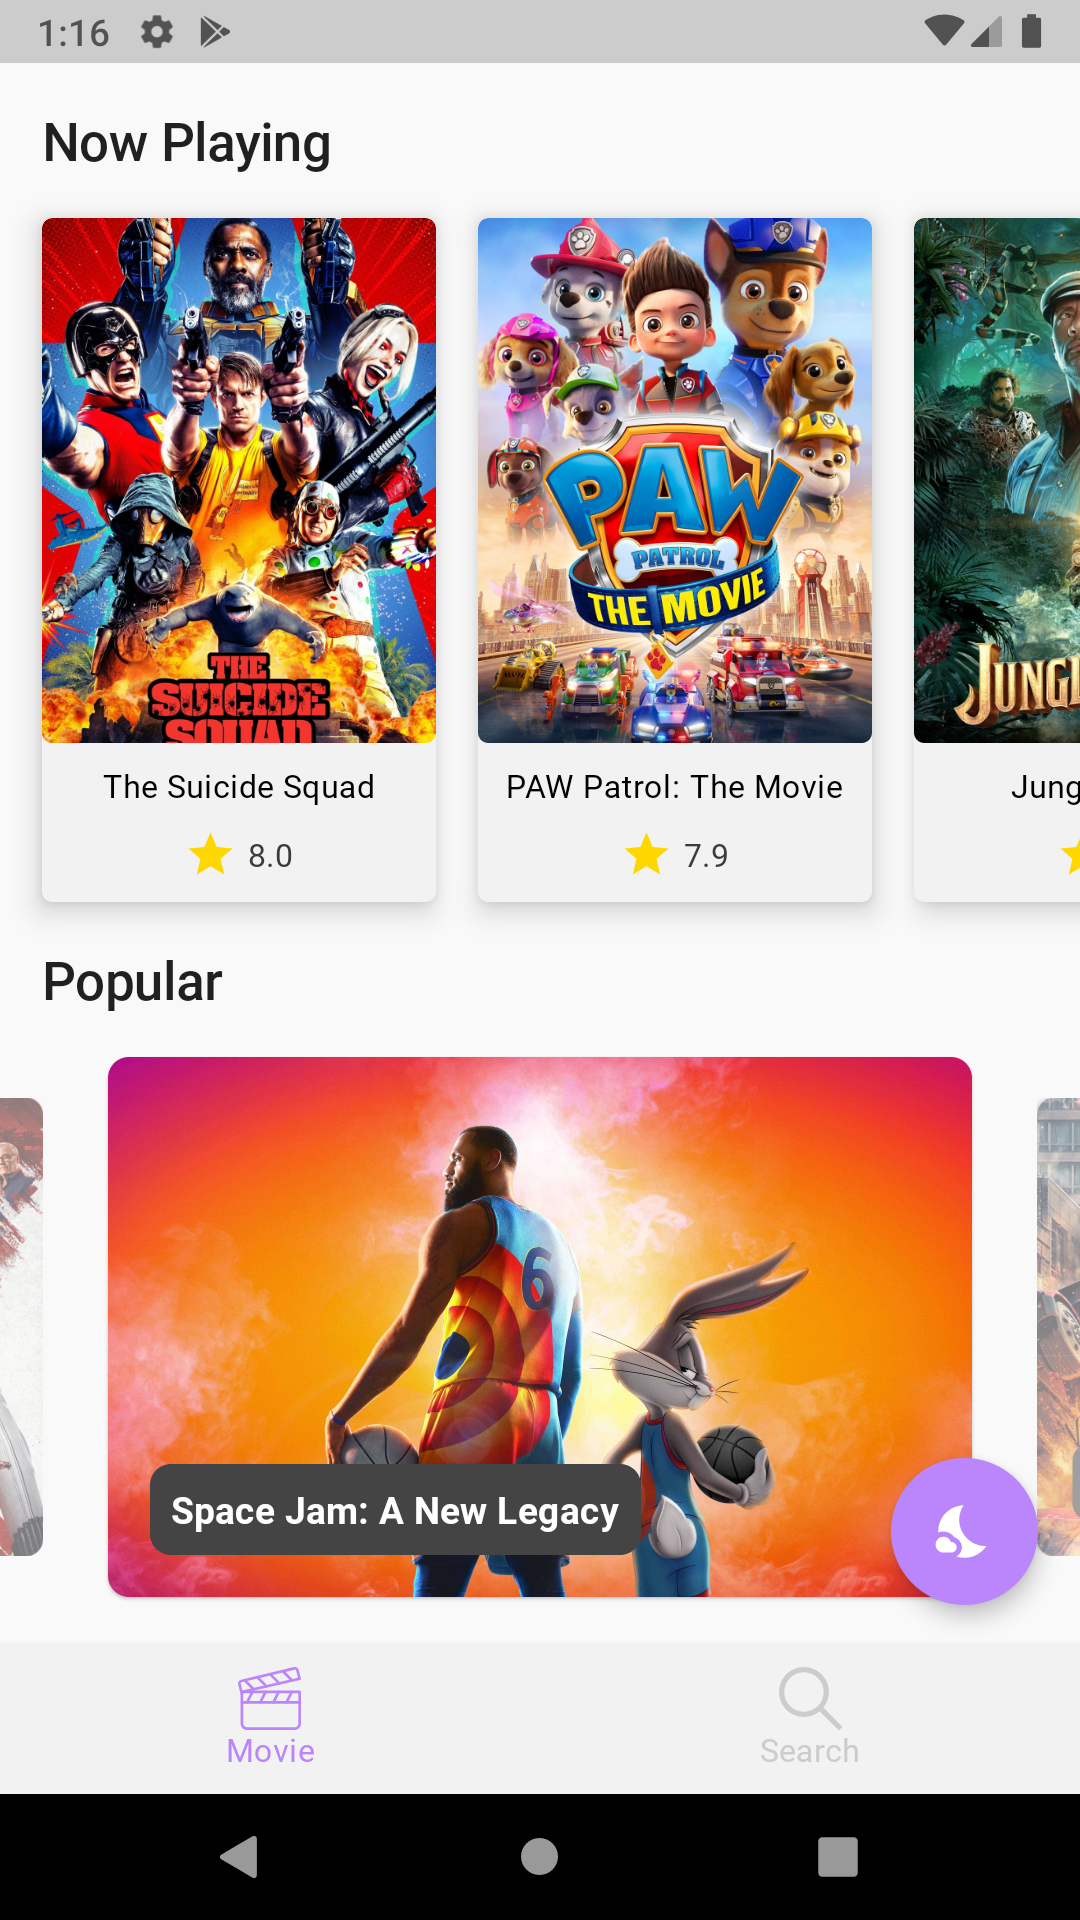
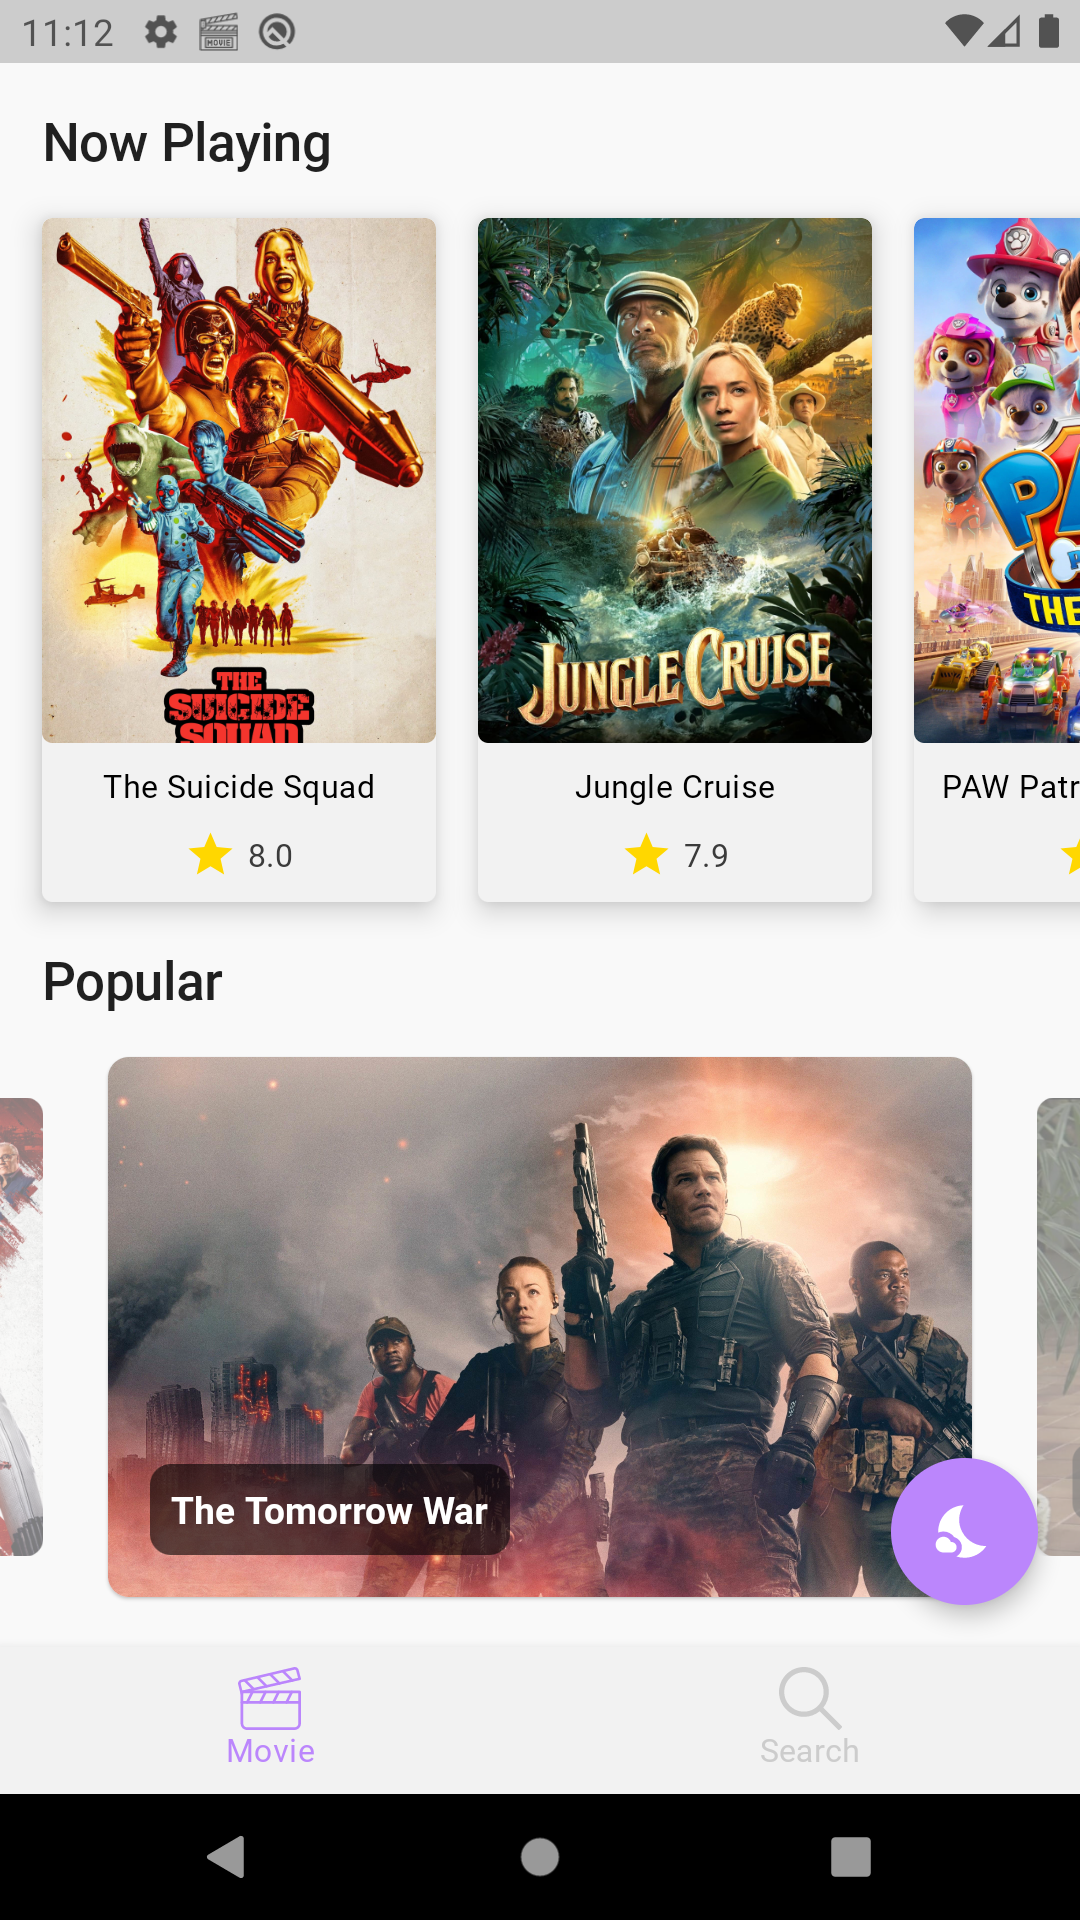
Change movie title background for popular movies

diff --git a/app/src/main/java/com/caner/composemoviedb/ui/screen/MovieScreen.kt b/app/src/main/java/com/caner/composemoviedb/ui/screen/MovieScreen.kt
@@ -243,7 +243,10 @@ fun PopularMoviesHorizontalPager(movies: List<Movie>) {
                     modifier = Modifier
                         .align(BottomStart)
                         .padding(16.dp)
-                        .background(Color.DarkGray, shape = RoundedCornerShape(8.dp))
+                        .background(
+                            Color.Black.copy(alpha = 0.6f),
+                            shape = RoundedCornerShape(8.dp)
+                        )
                         .padding(8.dp)
                 )
             }
